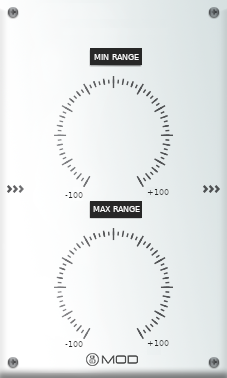
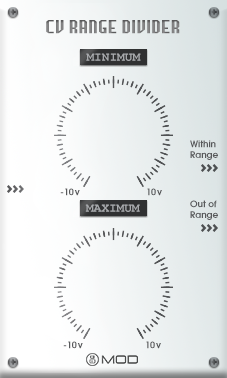
Added mod-cv-range GUI

diff --git a/plugin-data/mod-cv-plugins/mod-cv-range.lv2/modgui/stylesheet-cv-range.css b/plugin-data/mod-cv-plugins/mod-cv-range.lv2/modgui/stylesheet-cv-range.css
@@ -10,11 +10,17 @@
 /* PORTS
 ================================================ */
 
-.mod-cv-range{{{cns}}} .mod-pedal-input,
-.mod-cv-range{{{cns}}} .mod-pedal-output {
+.mod-cv-range{{{cns}}} .mod-pedal-input {
     top: 161px;
 }
 
+.mod-cv-range{{{cns}}} .mod-pedal-output {
+    top: 141px;
+}
+
+.mod-cv-range{{{cns}}} .mod-pedal-output .mod-output:nth-child(2) {
+    top: -9px !important;
+}
 /* = LIGHT ON/OFF
 ================================================ */
 .mod-cv-range{{{cns}}} .mod-light {
@@ -24,8 +30,8 @@
     background-position: left center;
     height: 25px;
     width: 25px;
-    top: 11px;
-    right: 30px;
+    top: 43px;
+    right: 13px;
 }
 
 .mod-cv-range{{{cns}}} .mod-light.on {
@@ -43,8 +49,8 @@
     background-position: center bottom;
     background-repeat: no-repeat;
     background-size: auto 28px 77px;
-    top: 30px;
-    right: 28px;
+    top: 63px;
+    right: 12px;
     cursor: pointer;
     height: 38.5px;
     width: 28px;
@@ -54,7 +60,7 @@
 
 .mod-cv-range{{{cns}}} .mod-switch.on {
     background-position: center top;
-    top: 40px;
+    top: 72px;
 }
 
 .mod-cv-range{{{cns}}} .mod-switch.off {
